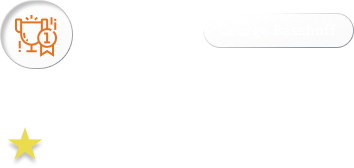
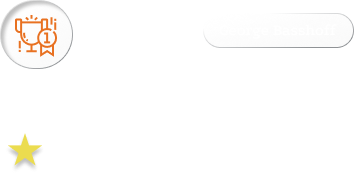
Font styling - Dashboard Cards

diff --git a/app/assets/stylesheets/application.scss b/app/assets/stylesheets/application.scss
@@ -98,11 +98,10 @@ a {
   font-size: 0.85!important;
 }
 
-h1, h2, h6 {
-  font-family: 'Marcellus', serif;
+h1, h2, h3, h4, h5, h6 {
+  font-family: 'Marcellus', serif!important;
 }
 
-h3, p {
-  font-family: 'Poppins', sans-serif;
+p, span, a, button, form {
+  font-family: 'Poppins', sans-serif!important;
 }
-
